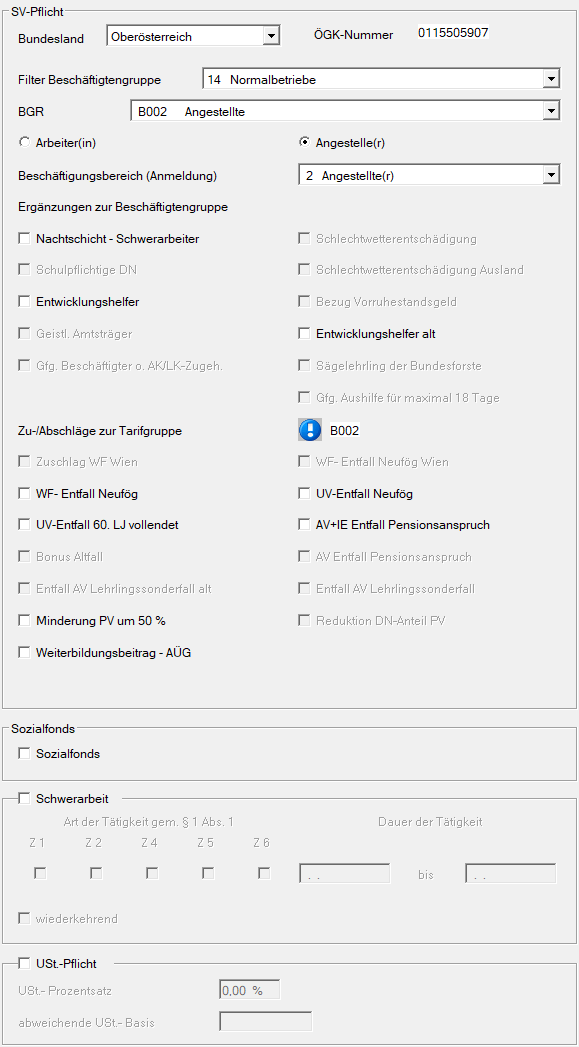
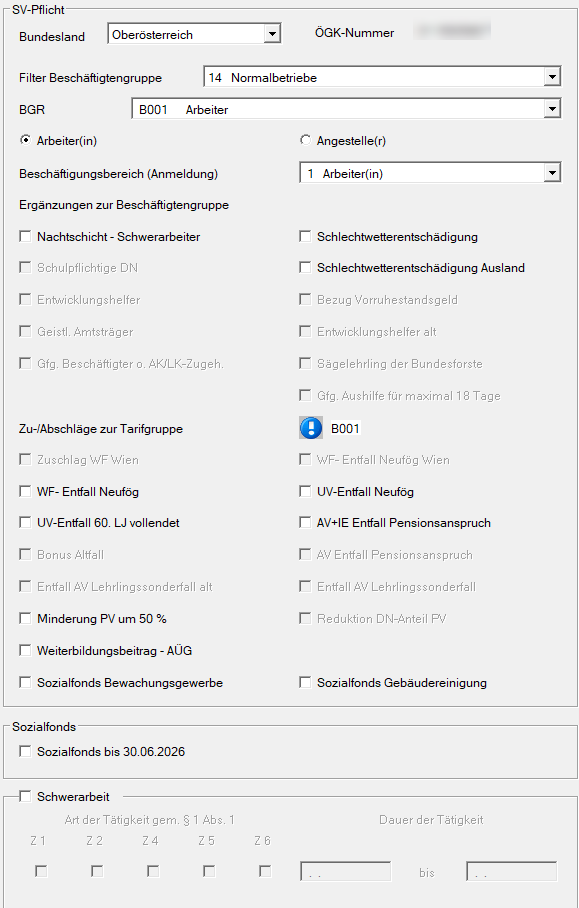
Anpassung Sozialversicherungsbildschirm: Sozialfonds

diff --git a/docs/LOHN/Abrechnungsbildschirme/Sozialversicherung.md b/docs/LOHN/Abrechnungsbildschirme/Sozialversicherung.md
@@ -83,7 +83,14 @@ Das Feld *Reduktion DN-Anteil PV* kann nur aktiviert werden, wenn der Dienstnehm
 
 Ist der Dienstnehmer sozialversicherungsrechtlich Wien zugehörig, wird automatisch der Zuschlag *Zuschlag WF Wien* aktiviert. Dadurch werden 0,50 % mehr WF an die ÖGK abgeführt.
 
-## Sozialfonds
+**Sozialfonds Bewachungsgewerbe und Sozialfonds Gebäudereinigung**
+
+Unterliegt der Dienstnehmer dem Kollektivvertrag Bewachungsgewerbe oder Denkmal-, Fassaden oder Gebäudereinigung, dann muss der Zuschlag Z14 bzw. Z15 aktiviert werden.
+
+!!! warning "Hinweis"
+    Die Zuschläge Z14 und Z15 sind erst seit 01.07.2026. Bis dorthin musste der Sozialfonds direkt an den Sozialfonds übermittelt werden und dafür musste der Sozialfonds bis 30.06.2026 aktiviert werden.
+
+## Sozialfonds bis 30.06.2026
 
 Durch Aktivierung des Häkchens wird der Sozialfonds automatisch abgerechnet.
 